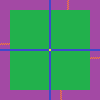
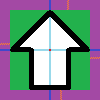
dopasowanie kosztu, obracanie agenta

diff --git a/main.py b/main.py
@@ -1,5 +1,7 @@
 import os
 
+import pygame.transform
+
 from agent import *
 from okno import *
 from ramy_czyli_wiedza_agenta import *
@@ -18,7 +20,7 @@ def dodaj_agenta():
     # random.randint(0, LICZBA_POL_W_POZIOMIE - BOK_AGENTA1_W_POLACH))
     # pole_lewe_gorne = PoleKraty(krata_magazynu, LICZBA_POL_W_PIONIE - BOK_AGENTA1_W_POLACH, int(LICZBA_POL_W_POZIOMIE / 2))
     pole_lewe_gorne = PoleKraty(krata_magazynu, 0, 0)
-    pom = 'traktor_ikona.png'
+    pom = 'test2_ikona.png'
     ikona = pygame.transform.scale(pygame.image.load(os.path.join('Ikony', pom)),
                                    (BOK_AGENTA1, BOK_AGENTA1))
     Agent(krata_magazynu, pole_lewe_gorne, ikona)

diff --git a/agent.py b/agent.py
@@ -175,9 +175,11 @@ class Agent(Obserwowany):
 
     def obrocSieWLewo(self):
         self.kierunek = self.kierunek.kierunekNaLewo()
+        self.tekstura = pygame.transform.rotate(self.tekstura, 90)
 
     def obrocSieWPrawo(self):
         self.kierunek = self.kierunek.kierunekNaPrawo()
+        self.tekstura = pygame.transform.rotate(self.tekstura, 270)
 
     def narysujAgenta(self):
         self.krata.okno.blit(self.tekstura, (self.hitbox.x, self.hitbox.y))
